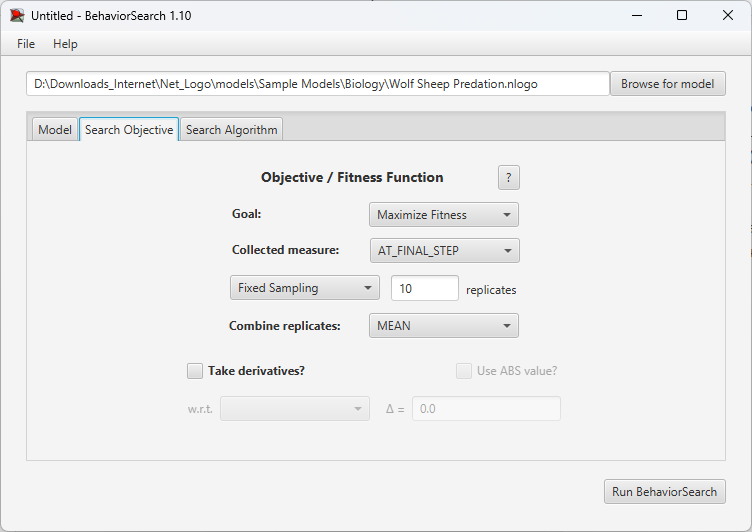
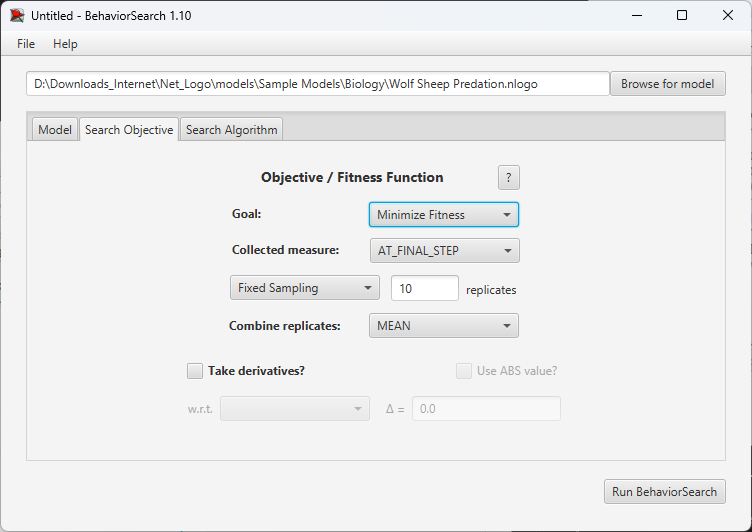
update laba3

diff --git a/Laba3/Laba_3_Zhuk.md b/Laba3/Laba_3_Zhuk.md
@@ -84,7 +84,7 @@ plotxy ticks average-sheep
 
 **Налаштування цільової функції** (вкладка Search Objective):
 
-Мета: максимізація значення дисперсії, що вказано у параметрі "Goal" зі значенням Minimize Fitness.
+Мета: мінімізація значення дисперсії, що вказано у параметрі "Goal" зі значенням Minimize Fitness.
 Обрано параметр "Collected measure" із значенням MEAN_ACROSS_STEPS для урахування динаміки популяцій на всіх тактах симуляції.
 Кількість повторів симуляції: 10 для зменшення випадковості.
 Загальний вигляд вкладки налаштувань цільової функції:  
